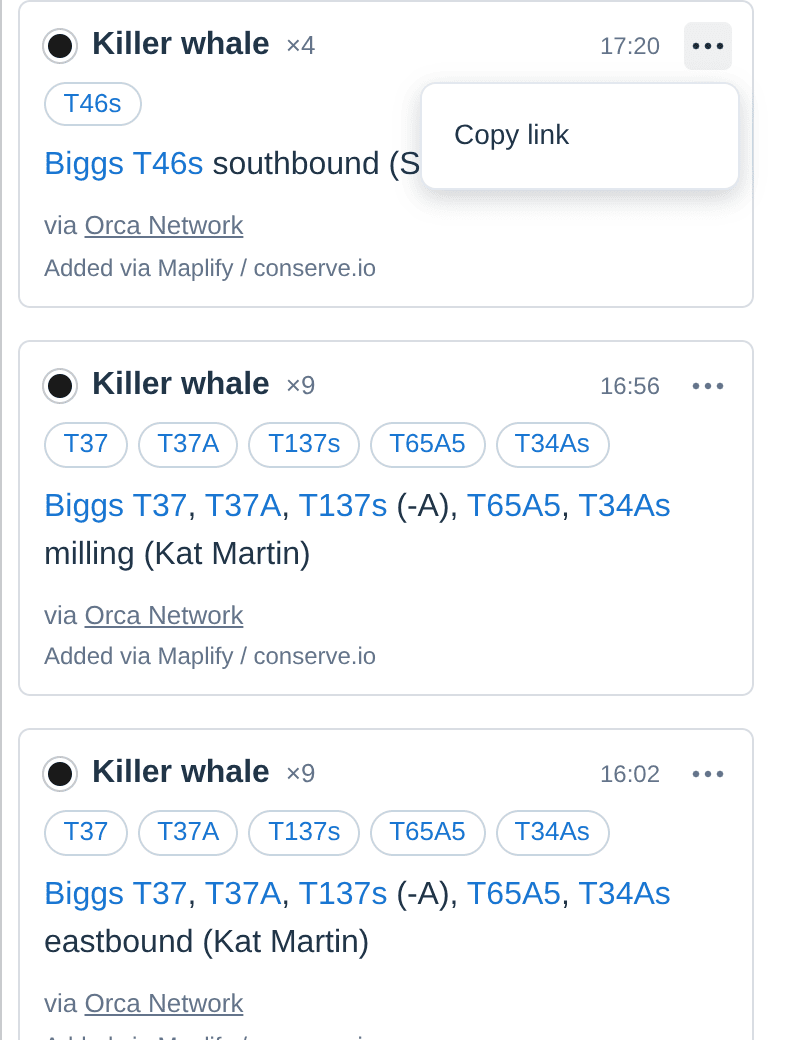
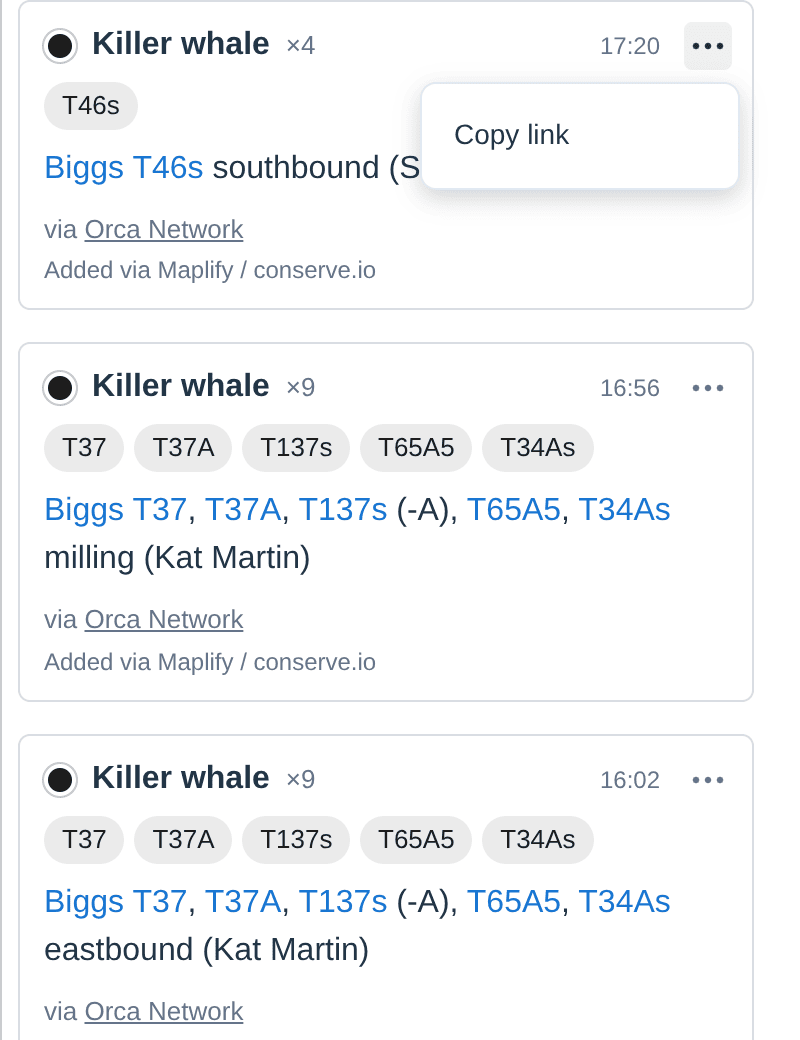
Chips look like orcasite's bout tags; the menu keeps keyboard focus as it closes (salish-fwyt.1)
Peter asked that the chips match how orcasite shows a bout's tags, a
control there and a display here. As in its BoutTags (MUI's small chip):
filled grey, or outlined and dashed for a tag only possibly heard, its
hedge in words, "J35 (possibly)" rather than a bare '?'. Here a chip is
a link only when the catalogue has a page, so a name without one has
quieter text.

The menu closes once focus has left it, as Tab takes it, rather than on
the key, which removed the focused item before the browser could move
focus on. Closing with focus inside, as Copy link and Escape do, gives
focus back to the menu's button (review).

Claude-Session: https://claude.ai/code/session_017BgNJENysuVYmDy4S5J7ru

diff --git a/src/obs-summary.ts b/src/obs-summary.ts
@@ -100,7 +100,11 @@ export class ObsSummary extends LitElement {
       font-style: normal;
       margin-top: 0.5rem;
     }
-    /* The animals and matrilines the sighting names, as chips. */
+    /* The animals and groups the sighting names, as chips. They look like the
+       tags on an Orcasound bout (orcasite's BoutTags, MUI's small chip): filled grey,
+       or outlined and dashed for a tag only possibly heard, its hedge in words. There
+       they are controls; here they are links to the animal's page, or plain where
+       the catalogue has none. */
     ul.animals {
       display: flex;
       flex-wrap: wrap;
@@ -110,23 +114,41 @@ export class ObsSummary extends LitElement {
       padding: 0;
     }
     ul.animals li {
-      border: 1px solid #c8d6e0;
-      border-radius: 999px;
-      color: #64748b;
+      background: rgba(0, 0, 0, 0.08);
+      border: 1px solid transparent;
+      border-radius: 12px;
+      box-sizing: border-box;
+      color: rgba(0, 0, 0, 0.87);
       font-size: 0.8125rem;
-      line-height: 1.6;
-      padding: 0 0.55rem;
+      line-height: 22px;
+      padding: 0 8px;
+      white-space: nowrap;
+    }
+    ul.animals li.possibly {
+      background: transparent;
+      border: 1px dashed #bdbdbd;
     }
     ul.animals li:has(a) {
       padding: 0;
     }
+    /* A name with no page reads quieter than one that leads somewhere, since
+       here, unlike on orcasite, a chip is a link only sometimes. */
+    ul.animals li:not(:has(a)) {
+      color: rgba(0, 0, 0, 0.6);
+    }
     ul.animals a {
-      border-radius: 999px;
+      border-radius: 12px;
+      color: inherit;
       display: block;
-      padding: 0 0.55rem;
+      padding: 0 8px;
     }
     ul.animals a:hover {
-      background: #eef6f9;
+      background: rgba(0, 0, 0, 0.06);
+      color: inherit;
+    }
+    ul.animals a:focus-visible {
+      outline: 2px solid #1976d2;
+      outline-offset: 1px;
     }
     cite a {
       color: inherit;
@@ -319,8 +341,10 @@ export class ObsSummary extends LitElement {
       </header>
       ${guard([identifiers, this.catalogLoaded], () => {
         const animals = namedAnimals(identifiers, catalogCodes() ?? new Map(), matrilineCodes() ?? new Map(), populationCodes() ?? new Map());
-        return animals.length ? html`<ul class="animals">${animals.map(({label, href}) =>
-          html`<li>${href ? html`<a href=${href}>${label}</a>` : label}</li>`)}</ul>` : nothing;
+        return animals.length ? html`<ul class="animals">${animals.map(({label, href, possibly}) => {
+          const text = possibly ? `${label} (possibly)` : label;
+          return html`<li class=${possibly ? 'possibly' : ''}>${href ? html`<a href=${href}>${text}</a>` : text}</li>`;
+        })}</ul>` : nothing;
       })}
       ${guard([body, this.catalogLoaded], () => html`${
         unsafeHTML(domPurify.sanitize(
@@ -350,7 +374,7 @@ export class ObsSummary extends LitElement {
   /** The card's actions: copying its link for anyone, cloning for the signed in, and editing and deleting for whoever may. */
   private renderMenu(editable: boolean) {
     return html`
-      <div class="menu" role="menu" aria-label="Actions for this sighting" @keydown=${this.onMenuKeydown}>
+      <div class="menu" role="menu" aria-label="Actions for this sighting" @keydown=${this.onMenuKeydown} @focusout=${this.onMenuFocusout}>
         <button type="button" role="menuitem" tabindex="-1" @click=${this.onCopyLink}>${this.copied ? 'Copied!' : 'Copy link'}</button>
         ${when(this.user, () => html`<button type="button" role="menuitem" tabindex="-1" @click=${this.onClone}>Clone</button>`)}
         ${when(editable, () => html`
@@ -369,7 +393,10 @@ export class ObsSummary extends LitElement {
     this.setMenuOpen(!this.menuOpen);
   };
 
-  private setMenuOpen(open: boolean, returnFocus = false) {
+  // Closing removes the menu, and a focused element that is removed leaves focus on
+  // the page, so a keyboard user would lose their place: when focus is in the menu
+  // as it closes, it goes back to the menu's button.
+  private setMenuOpen(open: boolean, returnFocus = this.focusInMenu()) {
     if (open === this.menuOpen) return;
     this.menuOpen = open;
     if (open) {
@@ -381,6 +408,11 @@ export class ObsSummary extends LitElement {
       document.removeEventListener('keydown', this.onDocumentKeydown);
       if (returnFocus) this.shadowRoot?.querySelector<HTMLButtonElement>('.more')?.focus();
     }
+  }
+
+  private focusInMenu(): boolean {
+    const focused = this.shadowRoot?.activeElement;
+    return !!focused && !!this.shadowRoot?.querySelector('.menu')?.contains(focused);
   }
 
   private menuItems(): HTMLButtonElement[] {
@@ -396,8 +428,7 @@ export class ObsSummary extends LitElement {
   };
 
   // Up and down move between the items, wrapping; Home and End go to the ends. The
-  // items are out of the Tab order, as a menu's are, so Tab moves focus past the menu
-  // before it closes, rather than onto an item about to be removed.
+  // items are out of the Tab order, as a menu's are, so Tab takes focus past the menu.
   private onMenuKeydown = (event: KeyboardEvent) => {
     const items = this.menuItems();
     const at = items.indexOf(this.shadowRoot?.activeElement as HTMLButtonElement);
@@ -405,9 +436,17 @@ export class ObsSummary extends LitElement {
     if (to !== undefined) {
       event.preventDefault();
       items[(to + items.length) % items.length]?.focus();
-    } else if (event.key === 'Tab') {
-      this.setMenuOpen(false);
     }
+  };
+
+  // The menu closes once focus has gone somewhere else, as Tab takes it: after the
+  // move, not on the key, which would remove the focused item before the browser
+  // could move focus on. A focusout with nowhere to go, as when a click lands on
+  // something that takes no focus, is left to the page's click listener, or a click
+  // on an item in a browser that doesn't focus buttons would close the menu first.
+  private onMenuFocusout = (event: FocusEvent) => {
+    const to = event.relatedTarget as Node | null;
+    if (to && !(event.currentTarget as HTMLElement).contains(to)) this.setMenuOpen(false, false);
   };
 
   disconnectedCallback(): void {

diff --git a/src/individual-links.test.ts b/src/individual-links.test.ts
@@ -111,21 +111,21 @@ test('a sighting\'s named animals become chips, each once, in the order its text
   // As the build extracts them from a real report: a code can repeat, and the
   // same animal can be written two ways.
   expect(namedAnimals(['T65A5', 'T65As', 'T065A5', 'T65A5'], codes, matrilines)).toEqual([
-    { label: 'T65A5', href: '/individuals/0010197/T065A5' },
-    { label: 'T65As', href: '/matrilines/0002163/T065As' },
+    { label: 'T65A5', href: '/individuals/0010197/T065A5', possibly: false },
+    { label: 'T65As', href: '/matrilines/0002163/T065As', possibly: false },
   ]);
 });
 
 test('a chip links a superseded code to the individual that now carries it', () => {
-  expect(namedAnimals(['T46A'], codes, matrilines)).toEqual([{ label: 'T46A', href: '/individuals/0010368/T122' }]);
+  expect(namedAnimals(['T46A'], codes, matrilines)).toEqual([{ label: 'T46A', href: '/individuals/0010368/T122', possibly: false }]);
 });
 
 test('a code the catalogue does not know stays as a chip without a link', () => {
   // Still what the observer wrote; linking is a navigation aid, not an identification.
   expect(namedAnimals(['CRC338', 'T46Bs', 'T999s'], codes, matrilines)).toEqual([
-    { label: 'CRC338', href: null },
-    { label: 'T46Bs', href: '/matrilines/0002149/T046Bs' },
-    { label: 'T999s', href: null },
+    { label: 'CRC338', href: null, possibly: false },
+    { label: 'T46Bs', href: '/matrilines/0002149/T046Bs', possibly: false },
+    { label: 'T999s', href: null, possibly: false },
   ]);
 });
 
@@ -134,17 +134,17 @@ test('a sighting that names no animal has no chips', () => {
   expect(namedAnimals([], codes, matrilines)).toEqual([]);
 });
 
-test("an Orcasound bout's tags become chips too: a hedged tag keeps its '?', a population links by name", () => {
+test("an Orcasound bout's tags become chips too: a tag only possibly heard says so, a population links by name", () => {
   // Bout identifiers are the register's labels, not codes read from text (decision 054).
   const populations = new Map([
     ['biggs', { entity_id: 'SSA:0000002', designation: 'Biggs' }],
     ['southern resident', { entity_id: 'SSA:0000010', designation: 'Southern Resident' }],
   ]);
   expect(namedAnimals(['T65A5?', "Bigg's", 'Southern Resident', 'J pod'], codes, matrilines, populations)).toEqual([
-    { label: 'T65A5?', href: '/individuals/0010197/T065A5' },
-    { label: "Bigg's", href: '/populations/0000002/Biggs' },
-    { label: 'Southern Resident', href: '/populations/0000010/Southern-Resident' },
+    { label: 'T65A5', href: '/individuals/0010197/T065A5', possibly: true },
+    { label: "Bigg's", href: '/populations/0000002/Biggs', possibly: false },
+    { label: 'Southern Resident', href: '/populations/0000010/Southern-Resident', possibly: false },
     // Pods aren't in the catalogue file yet (salish-fwyt.3).
-    { label: 'J pod', href: null },
+    { label: 'J pod', href: null, possibly: false },
   ]);
 });

diff --git a/src/obs-summary.test.ts b/src/obs-summary.test.ts
@@ -268,6 +268,53 @@ describe("a card's actions menu", () => {
     expect(second.items().length).toBe(1);
   });
 
+  it('closes once focus has moved out of it, as Tab moves it, and leaves focus where it went', async () => {
+    const {el, root, button, items, settle} = await mounted();
+    const elsewhere = document.createElement('button');
+    document.body.append(elsewhere);
+    button.click();
+    await settle();
+    // Tab is not handled: the menu's items are out of the Tab order, so the browser
+    // takes focus past the menu, and only then does the menu close.
+    root.querySelector('.menu')!.dispatchEvent(new KeyboardEvent('keydown', {key: 'Tab', bubbles: true, composed: true}));
+    await settle();
+    expect(items().length).toBe(1);
+    elsewhere.focus();
+    items()[0]!.dispatchEvent(new FocusEvent('focusout', {relatedTarget: elsewhere, bubbles: true, composed: true}));
+    await settle();
+    expect(items()).toEqual([]);
+    expect(document.activeElement).toBe(elsewhere);
+    // A focusout with nowhere to go is left to the page's click listener.
+    button.click();
+    await settle();
+    items()[0]!.dispatchEvent(new FocusEvent('focusout', {relatedTarget: null, bubbles: true, composed: true}));
+    await settle();
+    expect(items().length).toBe(1);
+    el.remove();
+  });
+
+  it('gives focus back to its button when Copy link closes it, rather than to the page', async () => {
+    vi.useFakeTimers();
+    const writeText = vi.fn(async () => {});
+    Object.defineProperty(navigator, 'clipboard', {value: {writeText}, configurable: true});
+    try {
+      const {root, button, items, settle} = await mounted();
+      button.click();
+      await settle();
+      items()[0]!.focus();
+      items()[0]!.click();
+      await settle();
+      expect(writeText).toHaveBeenCalledWith(expect.stringMatching(/\?o=inaturalist:1$/));
+      expect(items()[0]!.textContent).toBe('Copied!');
+      await vi.advanceTimersByTimeAsync(1200);
+      await settle();
+      expect(items()).toEqual([]);
+      expect(root.activeElement).toBe(button);
+    } finally {
+      vi.useRealTimers();
+    }
+  });
+
   it('stops listening to the page once closed', async () => {
     const {button, settle} = await mounted();
     const removed = vi.spyOn(document, 'removeEventListener');

diff --git a/src/individual-links.ts b/src/individual-links.ts
@@ -83,6 +83,8 @@ export function injectIndividualLinks(
 export interface NamedAnimal {
   label: string;
   href: string | null;
+  /** Tagged as only possibly heard: a bout's tag that ends in '?' (decision 054). */
+  possibly: boolean;
 }
 
 /**
@@ -90,8 +92,8 @@ export interface NamedAnimal {
  * the row of chips on its card. Two kinds of name arrive here: the catalogue codes
  * the build reads from a report's text (T65A5, T34As), and the register's labels an
  * Orcasound bout is tagged with (J35, J pod, Bigg's), where a tag only possibly heard
- * ends in '?' (decision 054). Each is looked up by the register's fold, a hedge set
- * aside and kept on the chip, and links to its page: an individual, a matriline, or
+ * ends in '?' (decision 054). Each is looked up by the register's fold with the '?'
+ * set aside and reported as `possibly`, and links to its page: an individual, a matriline, or
  * a population by its name. A name the catalogue doesn't know stays, unlinked: it is
  * still what was written. Pods aren't in the catalogue file yet, so a pod stays
  * unlinked too (salish-fwyt.3).
@@ -104,10 +106,12 @@ export function namedAnimals(
 ): NamedAnimal[] {
   const seen = new Set<string>();
   const named: NamedAnimal[] = [];
-  for (const label of identifiers ?? []) {
-    const folded = fold(label.replace(/\?$/, ''));
-    if (seen.has(fold(label))) continue;
-    seen.add(fold(label));
+  for (const identifier of identifiers ?? []) {
+    const possibly = identifier.endsWith('?');
+    const label = possibly ? identifier.slice(0, -1) : identifier;
+    const folded = fold(label);
+    if (seen.has(fold(identifier))) continue;
+    seen.add(fold(identifier));
     const matriline = matrilines.get(folded);
     const individual = codes.get(folded);
     const population = populations.get(folded);
@@ -115,7 +119,7 @@ export function namedAnimals(
       : individual ? individualPath(individual)
       : population ? populationPath(population)
       : null;
-    named.push({label, href});
+    named.push({label, href, possibly});
   }
   return named;
 }
